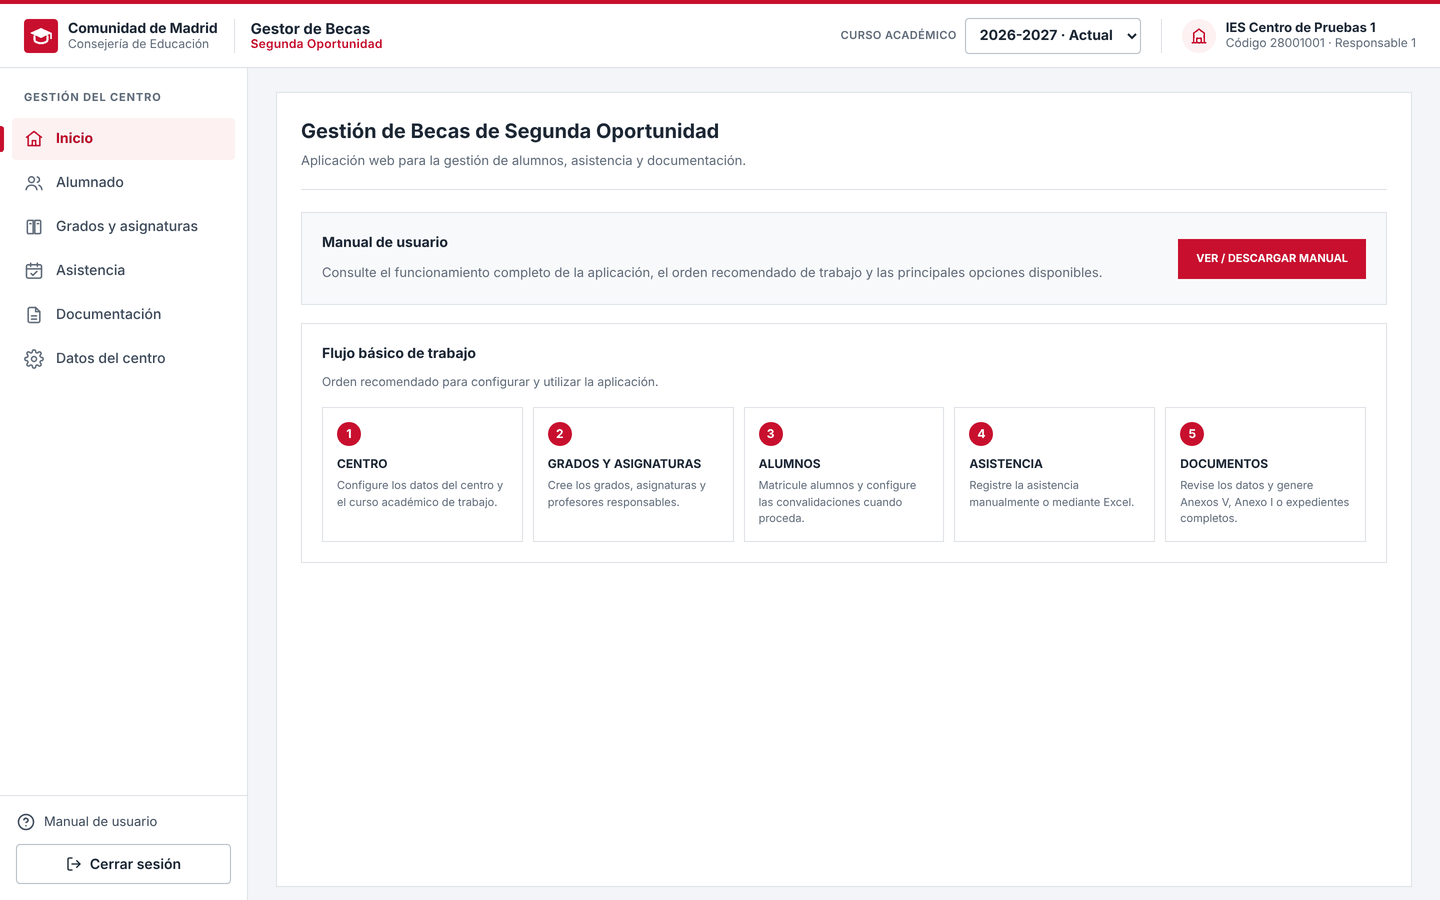
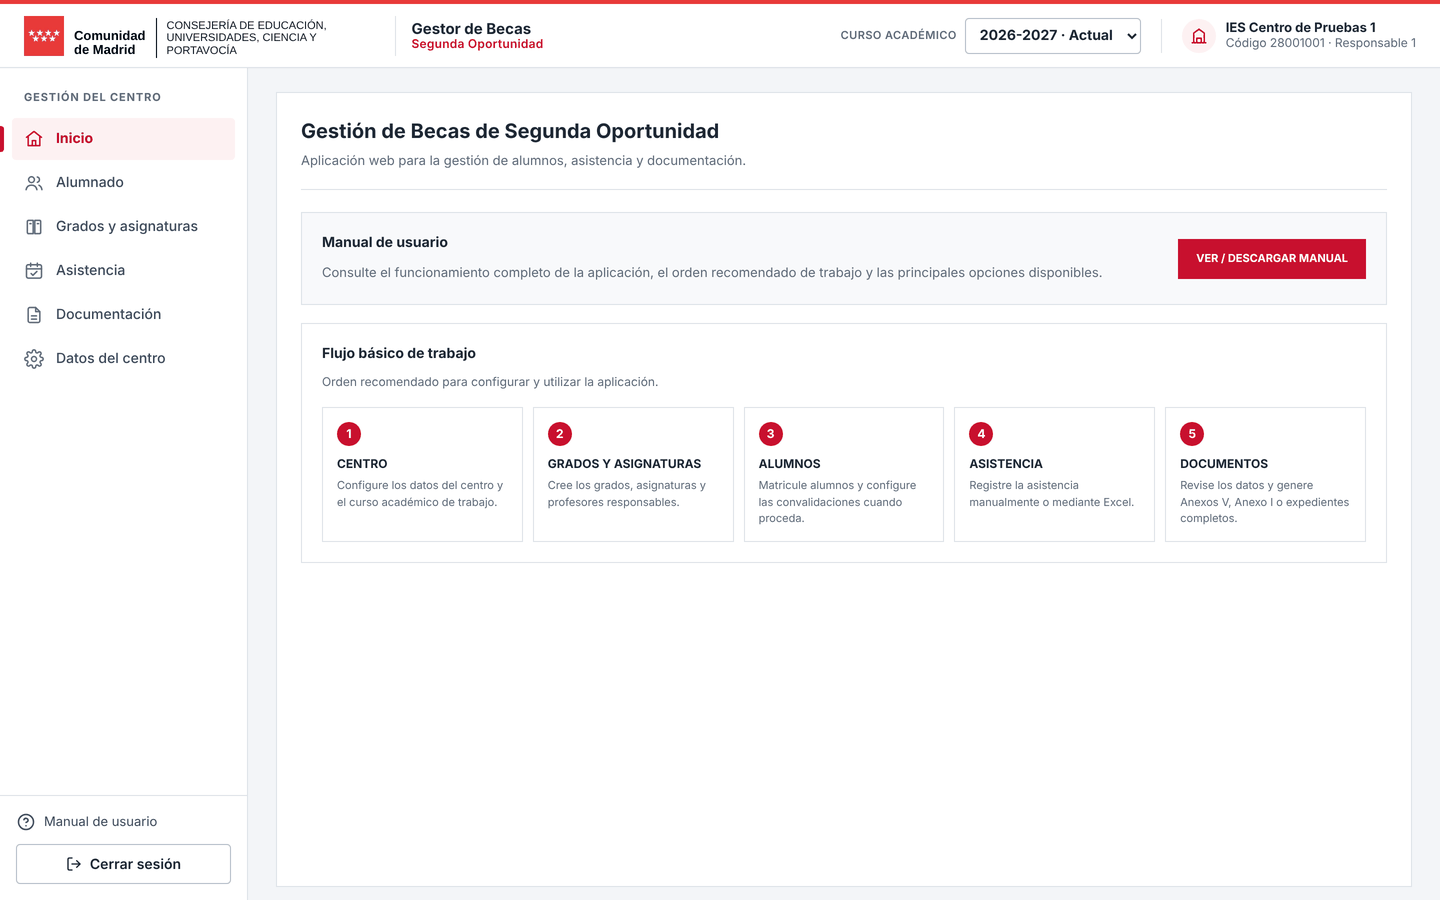
Logotipo de la Comunidad de Madrid (Consejería de Educación, Universidades, Ciencia y Portavocía)
- Logotipo completo en acceso y registro; emblema en cabecera con la
  composición institucional (emblema, nombre, filete y Consejería).
- Favicon e icono de Apple a partir del emblema.
- Token --cm-rojo-marca (#E83A39) para superficies de marca.
- Denominación de la Consejería actualizada.

Claude-Session: https://claude.ai/code/session_01ASrHQPh1hceGUX59jfpRxM

Changed region(s): [[0.0, 0.0, 1.0, 0.0622]]

diff --git a/src/app/globals.css b/src/app/globals.css
@@ -15,6 +15,9 @@
 :root {
   /* Marca */
   --cm-rojo: #c8102e;
+  /* Rojo del logotipo: solo para superficies de marca (franja,
+     emblema). No usar para texto: con blanco no alcanza AA. */
+  --cm-rojo-marca: #e83a39;
   --cm-rojo-hover: #a50d26;
   --cm-rojo-oscuro: #9b1b1f;
   --cm-rojo-claro: #fdf1f2;
@@ -201,7 +204,7 @@ table {
   gap: 24px;
   padding: 0 24px;
   background: var(--cm-superficie);
-  border-top: 4px solid var(--cm-rojo);
+  border-top: 4px solid var(--cm-rojo-marca);
   border-bottom: 1px solid var(--cm-borde);
   box-shadow: 0 1px 0 rgba(29, 39, 51, 0.02);
 }
@@ -213,36 +216,48 @@ table {
   min-width: 0;
 }
 
+/* Composición del logotipo institucional:
+   [emblema] Comunidad / de Madrid | CONSEJERÍA DE ... */
 .cm-marca-institucion {
   display: flex;
   align-items: center;
   gap: 10px;
-  padding-right: 16px;
+  padding-right: 18px;
   border-right: 1px solid var(--cm-borde);
 }
 
 .cm-marca-simbolo {
-  width: 34px;
-  height: 34px;
+  width: 40px;
+  height: 40px;
   flex: none;
-}
-
-.cm-marca-textos {
-  display: flex;
-  flex-direction: column;
-  line-height: 1.15;
+  display: block;
 }
 
 .cm-marca-organismo {
-  font-size: 14px;
+  align-self: flex-end;
+  margin-bottom: -2px;
+  white-space: pre-line;
+  font-family: Arial, "Helvetica Neue", Helvetica, sans-serif;
+  font-size: 13px;
   font-weight: 700;
-  color: var(--cm-texto);
-  letter-spacing: -0.005em;
+  line-height: 1.1;
+  color: #000;
+  padding-right: 10px;
+  border-right: 1.5px solid #000;
+  min-height: 40px;
+  display: flex;
+  align-items: flex-end;
 }
 
 .cm-marca-departamento {
-  font-size: 12px;
-  color: var(--cm-texto-3);
+  align-self: flex-end;
+  margin-bottom: -2px;
+  max-width: 210px;
+  font-family: Arial, "Helvetica Neue", Helvetica, sans-serif;
+  font-size: 11px;
+  line-height: 1.15;
+  text-transform: uppercase;
+  color: #1a1a1a;
 }
 
 .cm-marca-app {
@@ -623,20 +638,14 @@ table {
   transform: rotate(45deg);
 }
 
-.cm-acceso-institucion {
-  display: flex;
-  align-items: center;
-  gap: 12px;
-  font-size: 15px;
-  font-weight: 700;
-  line-height: 1.2;
-}
-
-.cm-acceso-institucion small {
-  display: block;
-  font-size: 13px;
-  font-weight: 400;
-  color: rgba(255, 255, 255, 0.82);
+.cm-acceso-logotipo {
+  position: relative;
+  z-index: 1;
+  align-self: flex-start;
+  padding: 16px 20px;
+  background: #fff;
+  border-radius: var(--cm-radio-grande);
+  box-shadow: 0 6px 20px rgba(60, 0, 10, 0.25);
 }
 
 .cm-acceso-nota {
@@ -677,6 +686,17 @@ table {
   color: var(--cm-texto-3);
 }
 
+@media (max-width: 1280px) {
+  .cm-marca-departamento {
+    display: none;
+  }
+
+  .cm-marca-organismo {
+    border-right: none;
+    padding-right: 0;
+  }
+}
+
 @media (max-width: 900px) {
   .cm-acceso {
     grid-template-columns: 1fr;
@@ -697,6 +717,10 @@ table {
 
   .cm-marca-institucion {
     display: none;
+  }
+
+  .cm-acceso-logotipo img {
+    width: 200px !important;
   }
 
   .cm-menu {

diff --git a/src/lib/marca.ts b/src/lib/marca.ts
@@ -2,17 +2,23 @@
    IDENTIDAD INSTITUCIONAL
 
    Textos de la cabecera, el pie y la pantalla de acceso.
-   Ajustar aquí la denominación oficial vigente del órgano
-   (cambia con cada estructura de Gobierno).
+   Ajustar aquí (o en .env) la denominación oficial vigente
+   del órgano: cambia con cada estructura de Gobierno.
 
-   LOGOTIPO OFICIAL: el aplicativo NO incluye el logotipo de
-   la Comunidad de Madrid. Si el órgano dispone de
-   autorización para usarlo conforme al Manual de Identidad
-   Corporativa, copiar el archivo a
-     public/marca/logo-institucional.svg
-   y poner NEXT_PUBLIC_LOGO_INSTITUCIONAL=1 en .env.
-   Mientras tanto se muestra un símbolo neutro.
+   LOGOTIPO (public/marca/):
+     - logo-comunidad-madrid.png ...... logotipo completo
+       (pantalla de acceso y registro)
+     - simbolo-comunidad-madrid.png ... emblema de las
+       estrellas (cabecera y favicon)
+   Para sustituirlo por una versión de mayor calidad (por
+   ejemplo, la vectorial del Manual de Identidad Corporativa)
+   basta con reemplazar esos archivos con el mismo nombre.
+   NEXT_PUBLIC_LOGO_INSTITUCIONAL=0 lo desactiva y muestra un
+   símbolo neutro.
    ========================================================= */
+
+const logoActivo =
+  process.env.NEXT_PUBLIC_LOGO_INSTITUCIONAL !== "0";
 
 export const MARCA = {
   organismo:
@@ -21,7 +27,7 @@ export const MARCA = {
 
   departamento:
     process.env.NEXT_PUBLIC_DEPARTAMENTO ??
-    "Consejería de Educación",
+    "Consejería de Educación, Universidades, Ciencia y Portavocía",
 
   aplicacion: "Gestor de Becas",
 
@@ -29,8 +35,13 @@ export const MARCA = {
 
   version: "1.1.0",
 
-  logoInstitucional:
-    process.env.NEXT_PUBLIC_LOGO_INSTITUCIONAL === "1"
-      ? "/marca/logo-institucional.svg"
-      : null,
+  /** Emblema (cuadrado rojo con estrellas). */
+  simbolo: logoActivo
+    ? "/marca/simbolo-comunidad-madrid.png"
+    : null,
+
+  /** Logotipo completo con la denominación de la Consejería. */
+  logotipo: logoActivo
+    ? "/marca/logo-comunidad-madrid.png"
+    : null,
 } as const;

diff --git a/src/components/SimboloMarca.tsx b/src/components/SimboloMarca.tsx
@@ -1,25 +1,28 @@
 import { MARCA } from "@/lib/marca";
 
 /*
- * Símbolo de la cabecera. Usa el logotipo oficial solo si se
- * ha configurado (ver src/lib/marca.ts); si no, un símbolo
- * neutro en el rojo institucional.
+ * Emblema institucional (estrellas de la Comunidad de Madrid).
+ * Si el logotipo está desactivado (NEXT_PUBLIC_LOGO_INSTITUCIONAL=0)
+ * se muestra un símbolo neutro.
  */
 export default function SimboloMarca({
-  tamano = 34,
+  tamano = 40,
   invertido = false,
 }: {
   tamano?: number;
   invertido?: boolean;
 }) {
-  if (MARCA.logoInstitucional) {
+  if (MARCA.simbolo) {
     return (
       // eslint-disable-next-line @next/next/no-img-element
       <img
-        src={MARCA.logoInstitucional}
-        alt={MARCA.organismo}
+        className="cm-marca-simbolo"
+        src={MARCA.simbolo}
+        alt=""
+        aria-hidden="true"
+        width={tamano}
         height={tamano}
-        style={{ height: tamano, width: "auto" }}
+        style={{ width: tamano, height: tamano }}
       />
     );
   }
@@ -36,7 +39,6 @@ export default function SimboloMarca({
       aria-hidden="true"
     >
       <rect width="34" height="34" rx="4" fill={fondo} />
-      {/* Birrete estilizado: educación */}
       <path d="M17 9 6 14l11 5 11-5-11-5Z" fill={trazo} />
       <path
         d="M10.5 16.4v4.6c0 1.6 2.9 3.2 6.5 3.2s6.5-1.6 6.5-3.2v-4.6"

diff --git a/src/app/registro/page.tsx b/src/app/registro/page.tsx
@@ -1,6 +1,6 @@
 "use client";
 
-import SimboloMarca from "@/components/SimboloMarca";
+import LogotipoInstitucional from "@/components/LogotipoInstitucional";
 import { MARCA } from "@/lib/marca";
 
 import {
@@ -187,15 +187,21 @@ const enviarFormulario = async (
           gap: "12px",
         }}
       >
-        <SimboloMarca />
+        <LogotipoInstitucional ancho={230} />
 
-        <div style={{ lineHeight: 1.2 }}>
+        <div
+          style={{
+            marginLeft: "auto",
+            textAlign: "right",
+            lineHeight: 1.25,
+          }}
+        >
           <div style={{ fontWeight: 700, fontSize: "15px" }}>
-            {MARCA.organismo}
+            {MARCA.aplicacion}
           </div>
 
-          <div style={{ fontSize: "13px", color: "var(--cm-texto-3)" }}>
-            {MARCA.departamento} · {MARCA.aplicacion}
+          <div style={{ fontSize: "13px", color: "var(--cm-rojo)", fontWeight: 600 }}>
+            {MARCA.programa}
           </div>
         </div>
       </div>

diff --git a/src/components/HeaderWeb.tsx b/src/components/HeaderWeb.tsx
@@ -17,18 +17,20 @@ export default function HeaderWeb({
   return (
     <header className="cm-cabecera">
       <div className="cm-marca">
-        <div className="cm-marca-institucion">
+        <div
+          className="cm-marca-institucion"
+          role="img"
+          aria-label={`${MARCA.organismo}. ${MARCA.departamento}`}
+        >
           <SimboloMarca />
 
-          <div className="cm-marca-textos">
-            <span className="cm-marca-organismo">
-              {MARCA.organismo}
-            </span>
+          <span className="cm-marca-organismo">
+            {MARCA.organismo.replace(/ de /, "\nde\u00a0")}
+          </span>
 
-            <span className="cm-marca-departamento">
-              {MARCA.departamento}
-            </span>
-          </div>
+          <span className="cm-marca-departamento">
+            {MARCA.departamento}
+          </span>
         </div>
 
         <div className="cm-marca-app">

diff --git a/src/components/LogotipoInstitucional.tsx b/src/components/LogotipoInstitucional.tsx
@@ -1,0 +1,35 @@
+import SimboloMarca from "@/components/SimboloMarca";
+
+import { MARCA } from "@/lib/marca";
+
+/*
+ * Logotipo completo (emblema + "Comunidad de Madrid" +
+ * Consejería). Para espacios amplios: acceso y registro.
+ */
+export default function LogotipoInstitucional({
+  ancho = 260,
+}: {
+  ancho?: number;
+}) {
+  if (MARCA.logotipo) {
+    return (
+      // eslint-disable-next-line @next/next/no-img-element
+      <img
+        src={MARCA.logotipo}
+        alt={`${MARCA.organismo}. ${MARCA.departamento}`}
+        width={ancho}
+        style={{ width: ancho, height: "auto", display: "block" }}
+      />
+    );
+  }
+
+  return (
+    <div style={{ display: "flex", alignItems: "center", gap: 12 }}>
+      <SimboloMarca />
+      <div style={{ lineHeight: 1.2 }}>
+        <strong>{MARCA.organismo}</strong>
+        <div style={{ fontSize: 13 }}>{MARCA.departamento}</div>
+      </div>
+    </div>
+  );
+}

diff --git a/src/components/PanelAcceso.tsx b/src/components/PanelAcceso.tsx
@@ -1,4 +1,4 @@
-import SimboloMarca from "@/components/SimboloMarca";
+import LogotipoInstitucional from "@/components/LogotipoInstitucional";
 
 import { MARCA } from "@/lib/marca";
 
@@ -11,16 +11,8 @@ export default function PanelAcceso() {
       className="cm-acceso-lateral"
       aria-label={`${MARCA.organismo} · ${MARCA.departamento}`}
     >
-      <div className="cm-acceso-institucion">
-        <SimboloMarca
-          tamano={40}
-          invertido
-        />
-
-        <div>
-          {MARCA.organismo}
-          <small>{MARCA.departamento}</small>
-        </div>
+      <div className="cm-acceso-logotipo">
+        <LogotipoInstitucional />
       </div>
 
       <div style={{ position: "relative", zIndex: 1 }}>

diff --git a/docs/RENDIMIENTO_Y_DESPLIEGUE.md b/docs/RENDIMIENTO_Y_DESPLIEGUE.md
@@ -204,13 +204,22 @@ Todos los colores salen de *tokens* CSS en `src/app/globals.css` (`--cm-rojo`, `
 * **Pantalla de acceso** en dos columnas: panel institucional y formulario.
 * Se han corregido columnas recortadas en *Alumnado* (acciones) y en *Asistencia* (resumen del mes).
 
-### 5.4 Logotipo oficial
-El aplicativo **no incluye** el logotipo de la Comunidad de Madrid: su uso está regulado por el Manual de Identidad Corporativa. Mientras no se configure, se muestra un símbolo neutro. Para usar el logotipo, si el órgano está autorizado:
+### 5.4 Logotipo institucional
+El logotipo de la Comunidad de Madrid con la denominación de la **Consejería de Educación, Universidades, Ciencia y Portavocía** está en `public/marca/`:
 
-1. Copiar el archivo a `public/marca/logo-institucional.svg`.
-2. Poner `NEXT_PUBLIC_LOGO_INSTITUCIONAL=1` en `.env`.
-3. Revisar en `src/lib/marca.ts` la denominación vigente de la Consejería.
-4. Recompilar con `npm run build`.
+| Archivo | Uso |
+|---|---|
+| `logo-comunidad-madrid.png` | Logotipo completo, en la pantalla de acceso y en el registro. |
+| `simbolo-comunidad-madrid.png` | Emblema de las estrellas: cabecera y favicon (`src/app/favicon.ico`, `src/app/apple-icon.png`). |
+
+En la cabecera, el emblema va acompañado de los textos «Comunidad de Madrid» y la denominación de la Consejería escritos como texto real. Se hace así porque, a 40 px de alto, la imagen completa sería ilegible. La composición sigue la del logotipo: emblema, nombre, filete vertical y Consejería. En pantallas de menos de 1280 px se oculta la línea de la Consejería.
+
+El rojo del logotipo (`#E83A39`, token `--cm-rojo-marca`) se usa solo en superficies de marca. Con texto blanco encima no alcanza el contraste AA, así que botones y textos usan `--cm-rojo` (`#C8102E`).
+
+**Cambio de denominación o de calidad**:
+* **Logotipo**: el actual procede de una imagen de 538 px. Si se dispone de la versión oficial en alta resolución del Manual de Identidad Corporativa, basta con sustituir los archivos manteniendo el nombre.
+* **Denominación**: cuando cambie la estructura de Gobierno, ajustar `NEXT_PUBLIC_DEPARTAMENTO` en `.env` o `src/lib/marca.ts`.
+* **Desactivar el logotipo**: `NEXT_PUBLIC_LOGO_INSTITUCIONAL=0` muestra un símbolo neutro.
 
 ### 5.5 Capturas
 
